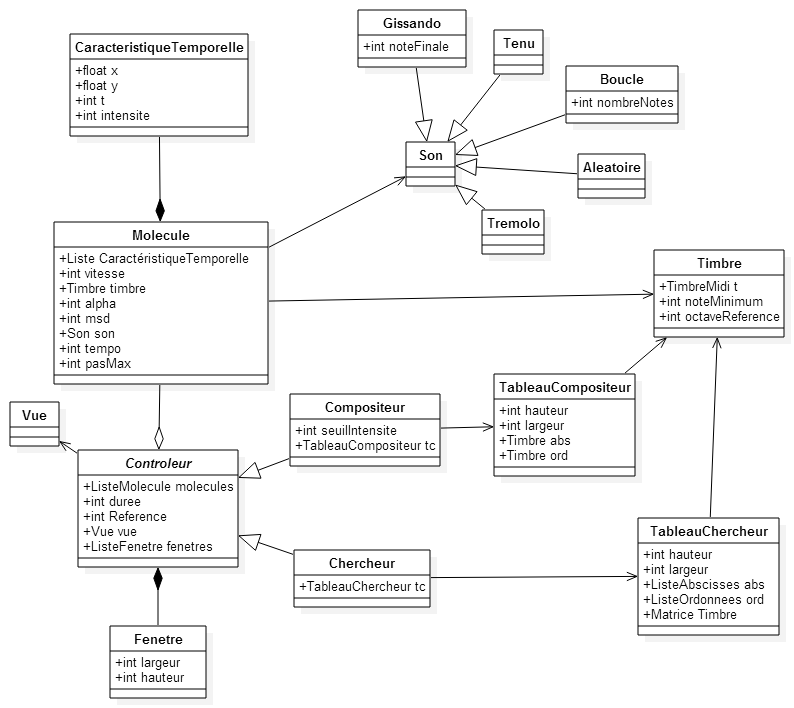
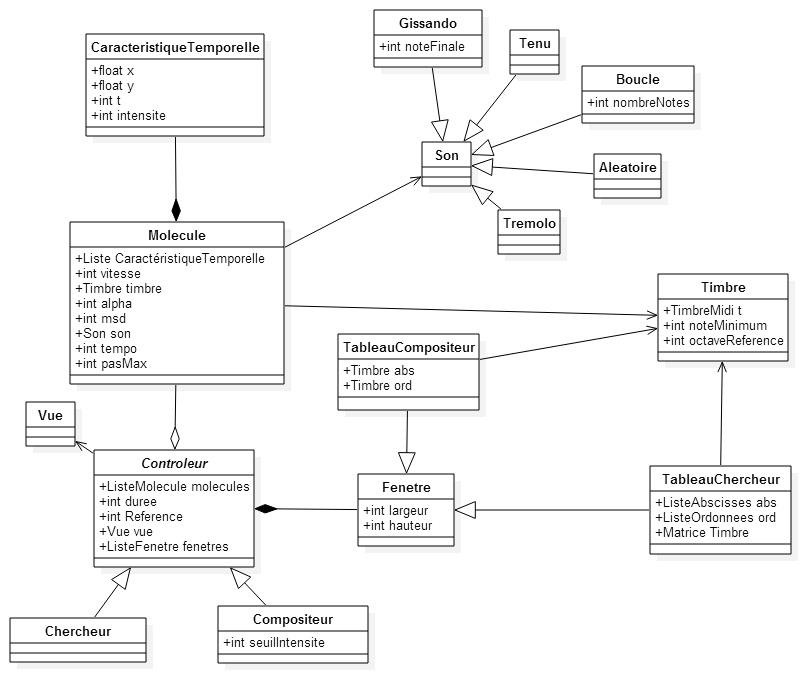
Changement des classes parce qu'Isabelle a ralé

diff --git a/src/Utilitaires/Midi.java b/src/Utilitaires/Midi.java
@@ -51,7 +51,7 @@ public class Midi{
     public void configurerChannel(int numChannel, int instrument){
 	MidiChannel[] m = synthetiseur.getChannels();
 	Soundbank soundbank = synthetiseur.getDefaultSoundbank();
-        Instrument[] instr = soundbank.getInstruments();
+	Instrument[] instr = soundbank.getInstruments();
 	m[numChannel].programChange(instr[instrument].getPatch().getBank(), instr[instrument].getPatch().getProgram());
     }
 

diff --git a/src/TableauChercheur.java b/src/TableauChercheur.java
@@ -1,9 +1,7 @@
 import java.util.ArrayList;
 
 
-public class TableauChercheur {
-	private int hauteur;
-	private int largeur;
+public class TableauChercheur extends Fenetre {
 	ArrayList<Float> absisses;
 	ArrayList<Float> ordonnees;
 	

diff --git a/parseur/tmp/CaracteristiqueTemporelle.java b/parseur/tmp/CaracteristiqueTemporelle.java
@@ -28,6 +28,6 @@ class CaracteristiqueTemporelle{
      * de la molécule en cours d'ajout dans la liste.
      */
     float calculePas(float x, float y){
-	return 5 // problème sur sqrt;
+	return 5; // problème sur sqrt;
     }
 }

diff --git a/src/TableauCompositeur.java b/src/TableauCompositeur.java
@@ -1,7 +1,5 @@
 
-public class TableauCompositeur {
-	private int hauteur;
-	private int largeur;
+public class TableauCompositeur extends Fenetre {
 	private Timbre abs;
 	private Timbre ord;
 	

diff --git a/parseur/exemples/Lancer.java b/parseur/exemples/Lancer.java
@@ -1,4 +1,7 @@
+package exemples;
+
 import java.io.IOException;
+
 class Lancer{
   public static void main(String... args) {
     boolean estMisAssertion = false;

diff --git a/src/Compositeur.java b/src/Compositeur.java
@@ -1,6 +1,5 @@
 
 public class Compositeur extends Controleur {
-	TableauCompositeur tableauCompositeur;
 	public int seuilIntensite;
 	
 }

diff --git a/parseur/exemples/Lecture.java b/parseur/exemples/Lecture.java
@@ -1,3 +1,5 @@
+package exemples;
+
 import java.io.File;
 import java.io.Reader;
 import java.io.FileReader;

diff --git a/src/Chercheur.java b/src/Chercheur.java
@@ -1,5 +1,4 @@
 
 public class Chercheur extends Controleur {
-	TableauChercheur tableauChercheur;
 	
 }
